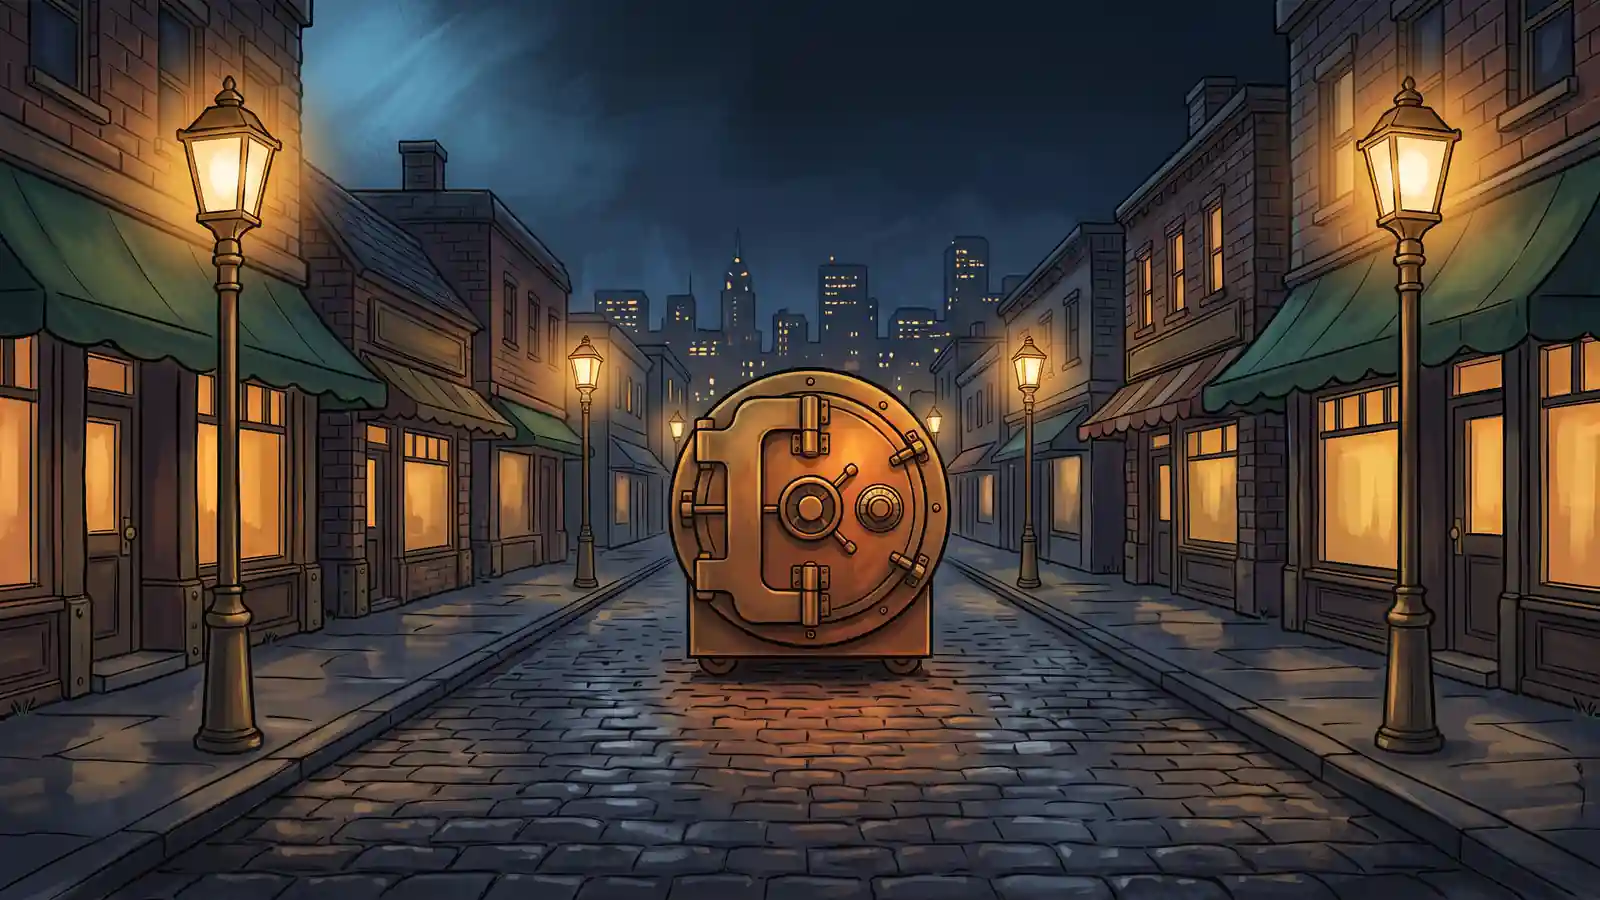
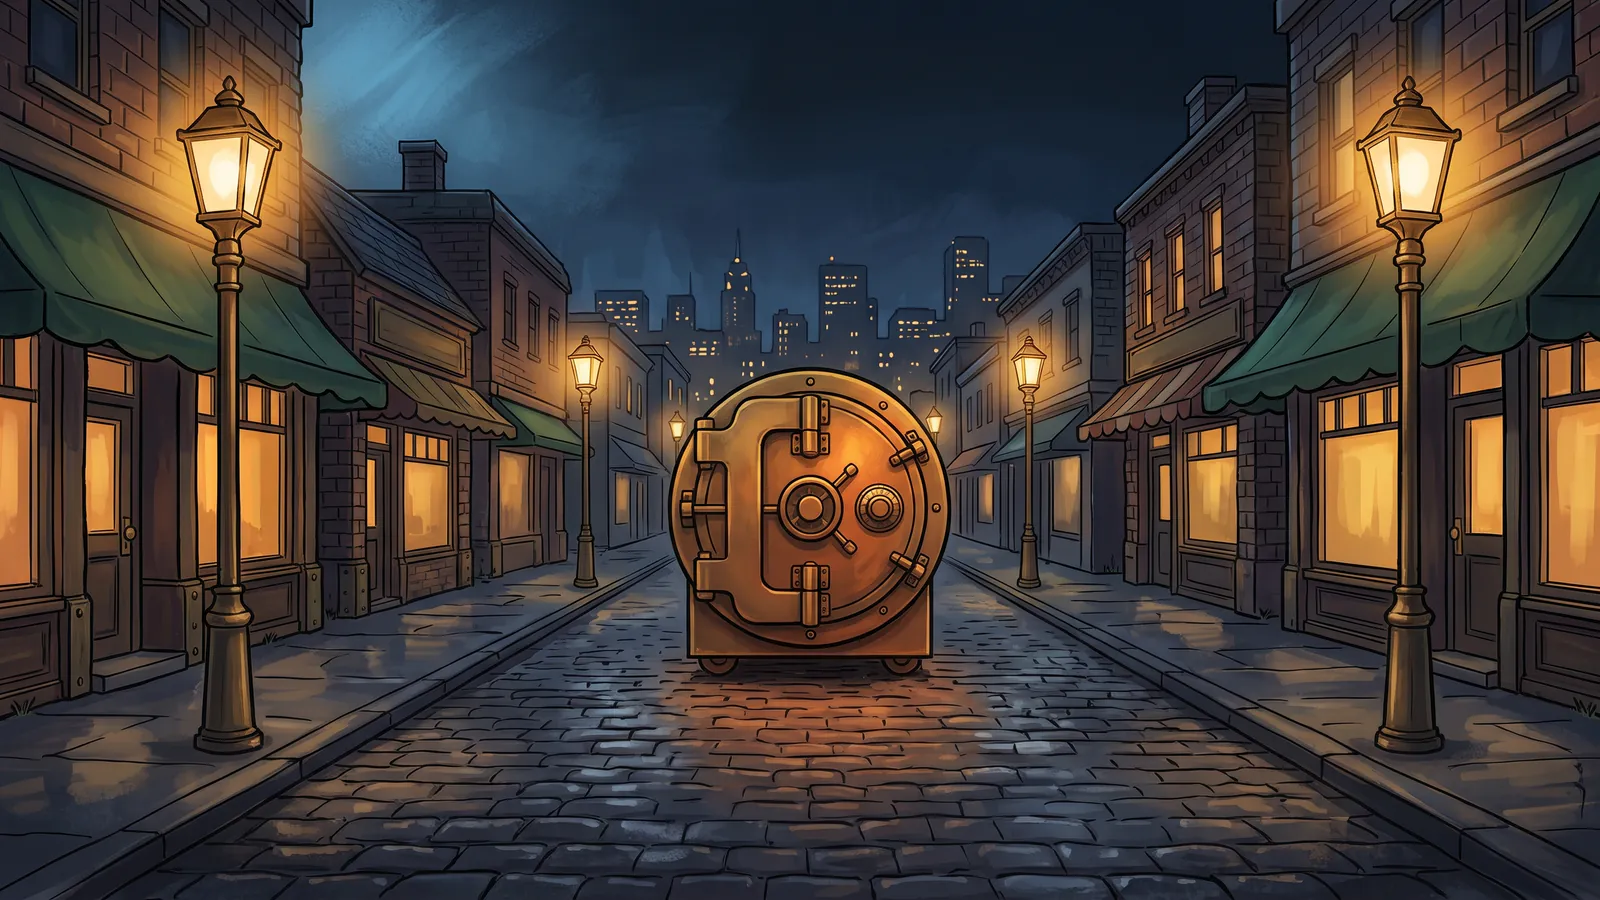
Re-encode the 0.1.163 title streets at q80 and drop the painted lantern skins from this release.
The four 1600×900 title streets stay as painted opaque webps with baked lamp and vault glows, now encoded at about quality 80. Lantern sprites and prop-art.css go back to the lossless webp conversion already in this version; the cottage-painted lantern masters stay in keyline-art for later. Changelog covers the size cleanup and the painted title street only.

diff --git a/src/version.ts b/src/version.ts
@@ -259,4 +259,4 @@ export const SHEET_HREF = "/sheet-k07d.css";
 // 0.1.160: Painted street vault pins — the six tier colors and the Hearth use Ryan's approved Gemini paintings (transparent webp cutouts) in place of the code-drawn vaultSvg, matching the Comet pin; locked/cooling states are a CSS filter on the whole image, no overlays; Hearth field squares move off the painting into a label under the pin and the vault card; a walker with a print-shop vault skin or vault paint equipped still sees the existing SVG vault so purchased skins keep working. 0.1.155 is still held for trivia (k1160a).
 // 0.1.161: painted Gemini cars — Ryan's approved painted sheets replace the photo/pixel car sprites on the map cab, the Showroom, the garage, the title screen, the dealer sign and the Loop sled (8 cars × side/front/back, webp, sides 640 px wide; scripts/art/cars-cut-painted.py). Paint variants are recolours of the new bases, same paint ids. Cars render smooth (no image-rendering: pixelated on .cab-sprite); nothing is drawn over the paintings. Prices, ids, perks and Loop timing are unchanged. 0.1.160 is the parallel painted-vaults branch, not this one (k1161a).
 // 0.1.162: Painted shop and sign art — the print shop, street counter, outfitter, station sign and notice board use Ryan's approved Gemini paintings (transparent webp cutouts) in place of the pixel props and the inline-SVG enamel plates, matching the Comet pin; the outfitter's Hire tab shows its front like the print shop and counter do; fare and cooling stay off the painting (a "Fare" label under the station pin, a whole-image filter for cooling). 0.1.160 and 0.1.161 are held for the painted vaults and cars. 0.1.155 is still held for trivia (k1162a).
-// 0.1.163: Painted title street and static headroom — the four title streets (generic, NYC, Chicago, SF) are new cottage-painted 1600×900 opaque webps with the lamp and vault glows baked in, so the .ts-vault / .ts-lamp overlays and the vault pulse are gone and nothing is laid over the painting; passing headlights and clear-night fireflies stay. Static headroom from earlier in this version is unchanged: unused leftover sprites removed (old vault.png / key.png and the retired charm icons); used PNG props converted to lossless exact webp (lanterns, keys, matches, items, cab, legacy player fallback sheets, scout icons, title scouts); walker v2 sheets and coat masks kept as PNG; fallback city street maps (public/streets/*.json) ship gzipped like the v2 bakes. Lantern skins: the five metals (brass, copper, iron, nickel, verdigris) are new cottage-painted 125×320 RGBA webps with the wick, glass and bloom baked in, so the CSS glass glow, wick and lamp-bloom on .lantern are off (prop-art.css) and the tier-coloured drop-shadow is gone; nothing is laid over the painting. 0.1.155 is still held for trivia (k1163a).
+// 0.1.163: Painted title street and static headroom — the four title streets (generic, NYC, Chicago, SF) are new cottage-painted 1600×900 opaque webps with the lamp and vault glows baked in, so the .ts-vault / .ts-lamp overlays and the vault pulse are gone and nothing is laid over the painting; passing headlights and clear-night fireflies stay. Static headroom from earlier in this version is unchanged: unused leftover sprites removed (old vault.png / key.png and the retired charm icons); used PNG props converted to lossless exact webp (lanterns, keys, matches, items, cab, legacy player fallback sheets, scout icons, title scouts); walker v2 sheets and coat masks kept as PNG; fallback city street maps (public/streets/*.json) ship gzipped like the v2 bakes. 0.1.155 is still held for trivia (k1163a).

diff --git a/src/game/cosmetics.test.ts b/src/game/cosmetics.test.ts
@@ -240,51 +240,6 @@ test("art wiring: the coat palette, the generated coat CSS and the lantern-skin 
   assert.ok(root.includes("/coats.css"));
 });
 
-test("0.1.163 lantern skins are finished paintings: no CSS bloom, glass, wick or tier glow over them", () => {
-  const props = read("../../public/prop-art.css").replace(/\/\*[\s\S]*?\*\//g, "");
-  /** Every declaration block whose selector list names `sel` exactly. */
-  const blocks = (sel: string) =>
-    [...props.matchAll(/([^{}]+)\{([^}]*)\}/g)].filter((m) => m[1].split(",").some((s) => s.trim() === sel)).map((m) => m[2]);
-  for (const sel of [".lantern::before", ".lantern-hero::before", ".lantern-glass", ".lantern-glass::before", ".lantern-glass::after"]) {
-    assert.ok(blocks(sel).some((b) => /display:\s*none/.test(b)), `${sel} is off`);
-  }
-  // No tier-coloured shadow on the lamp; only the dark foot shadow may stay.
-  for (const sel of [".lantern", ".lantern-hero", ".skin-swatch .lantern", ':root[data-sky-phase="night"] .vault-pin .lantern']) {
-    const filters = blocks(sel).flatMap((b) => b.match(/filter:[^;}]*/g) ?? []);
-    assert.ok(filters.length > 0, `${sel} sets its own filter`);
-    for (const f of filters) {
-      assert.doesNotMatch(f, /--glow/, `${sel}: ${f}`);
-      assert.match(f, /^filter:\s*drop-shadow\(0 [12]px 1px #0000008c\)\s*$/, `${sel}: ${f}`);
-    }
-  }
-  // Nothing in the lantern rules of this sheet reads the tier colour at all.
-  for (const m of props.matchAll(/([^{}]+)\{([^}]*)\}/g)) {
-    if (/\.lantern\b/.test(m[1])) assert.doesNotMatch(m[2], /--glow/, m[1].trim());
-  }
-  assert.match(props, /\.lantern\{[^}]*width:18px;[^}]*height:46px;[^}]*100% 100%/);
-  assert.match(props, /\.lantern-hero\{[^}]*width:42px;[^}]*height:108px/);
-
-  for (const id of ["brass", "copper", "iron", "nickel", "verdigris"]) {
-    const b = readFileSync(new URL(`../../public/sprites/lanterns/${id}.webp`, import.meta.url));
-    assert.equal(b.toString("ascii", 0, 4), "RIFF", id);
-    assert.equal(b.toString("ascii", 8, 12), "WEBP", id);
-    const kind = b.toString("ascii", 12, 16);
-    let w: number, h: number, alpha: boolean;
-    if (kind === "VP8L") {
-      assert.equal(b[20], 0x2f, `${id}: VP8L signature`);
-      const bits = b.readUInt32LE(21);
-      [w, h, alpha] = [1 + (bits & 0x3fff), 1 + ((bits >>> 14) & 0x3fff), ((bits >>> 28) & 1) === 1];
-    } else {
-      // Lossy VP8 alone has no alpha, so anything else must be the extended container.
-      assert.equal(kind, "VP8X", `${id}: ${kind} cannot carry alpha`);
-      [w, h, alpha] = [1 + b.readUIntLE(24, 3), 1 + b.readUIntLE(27, 3), (b[20] & 0x10) !== 0];
-    }
-    assert.deepEqual([w, h], [125, 320], `${id}.webp is ${w}x${h}`);
-    assert.equal(alpha, true, `${id}.webp has an alpha channel`);
-    assert.ok(b.length < 40_000, `${id}.webp is ${b.length} bytes`);
-  }
-});
-
 test("0.1.136 vault skins recolour the case and leave the tier dial", () => {
   const skins = read("../../public/wardrobe.css");
   const pins = read("./pins.ts");

diff --git a/public/prop-art.css b/public/prop-art.css
@@ -4,28 +4,12 @@
   width:18px;
   height:46px;
   background:url("/sprites/lanterns/brass.webp") center / 100% 100% no-repeat;
-  filter:drop-shadow(0 2px 1px #0000008c)
+  filter:drop-shadow(0 2px 1px #0000008c) drop-shadow(0 0 6px var(--glow))
 }
 .lantern-hero{
   width:42px;
   height:108px;
-  transform:none;
-  filter:drop-shadow(0 2px 1px #0000008c)
-}
-/* 0.1.163: the five lantern webps bake the wick, the amber glass and its bloom into the painting, so the CSS
-   lamp bloom, glass and wick are off and no tier-coloured shadow is cast: nothing is drawn over the sprite.
-   Only the dark foot shadow stays (the night rule in styles.css used to add a tier glow and a brightness lift). */
-.lantern::before,
-.lantern-hero::before{
-  display:none
-}
-.lantern-glass,
-.lantern-glass::before,
-.lantern-glass::after{
-  display:none
-}
-:root[data-sky-phase="night"] .vault-pin .lantern{
-  filter:drop-shadow(0 2px 1px #0000008c)
+  transform:none
 }
 .vault-pin{
   width:20px;
@@ -66,9 +50,9 @@
   transform:scale(1.55);
   transform-origin:50% 55%
 }
-/* 0.1.163: the shop preview keeps the foot shadow only (the glow is painted in). */
+/* 0.0.99: a softer glow in the shop preview so the metal reads. */
 .skin-swatch .lantern{
-  filter:drop-shadow(0 1px 1px #0000008c)
+  filter:drop-shadow(0 1px 1px #0000008c) drop-shadow(0 0 2px var(--glow))
 }
 
 .match-pin{

diff --git a/src/game/cityPass.test.ts b/src/game/cityPass.test.ts
@@ -218,6 +218,6 @@ test("0.1.163 the title street's lamp and vault glows are painted in: no overlay
     const { w, h, alpha } = webpInfo(buf);
     assert.deepEqual([w, h], [1600, 900], `street-${name}.webp is ${w}x${h}`);
     assert.equal(alpha, false, `street-${name}.webp is opaque`);
-    assert.ok(buf.length < 80_000, `street-${name}.webp is ${buf.length} bytes`);
+    assert.ok(buf.length < 200_000, `street-${name}.webp is ${buf.length} bytes`);
   }
 });
